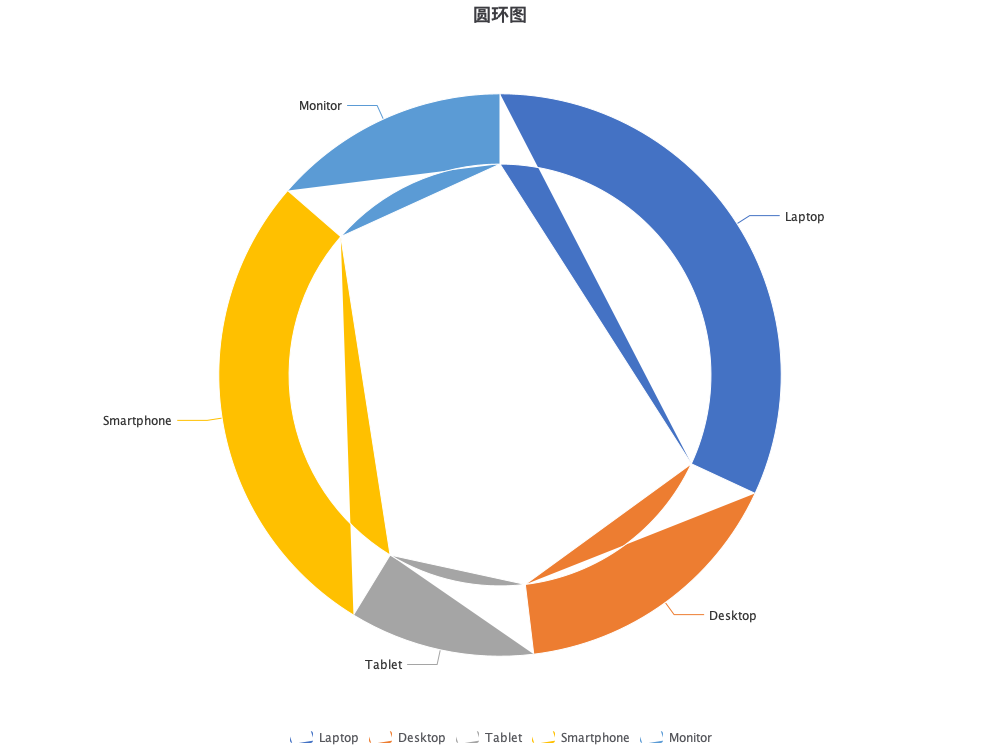
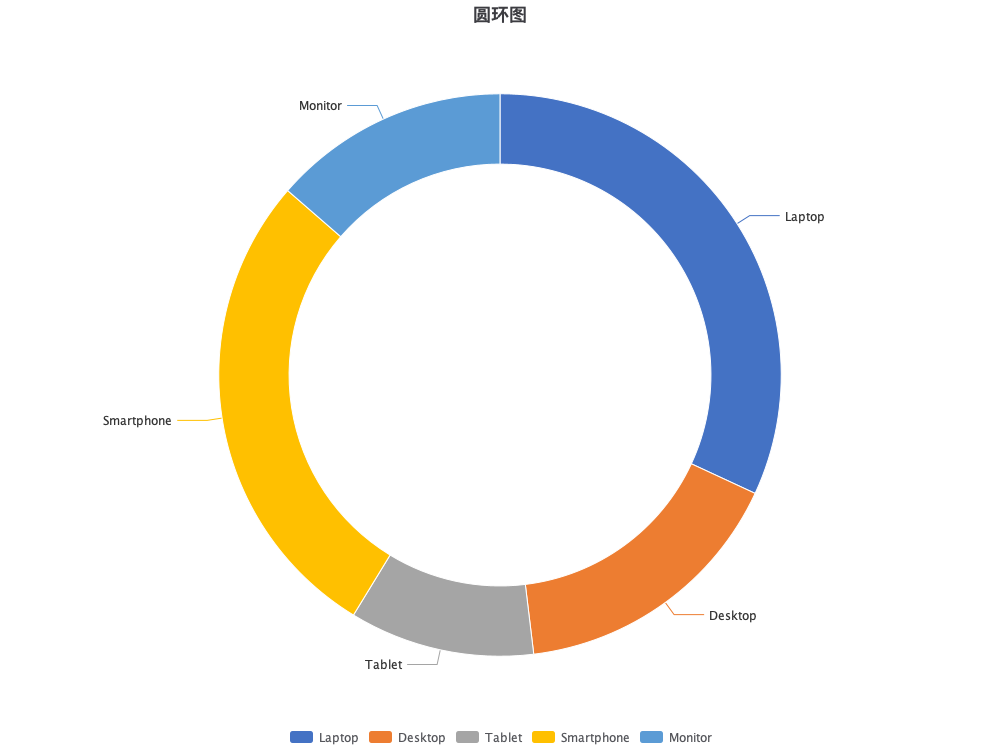
fix(nop-canvas2d): 圆环图扇区几何畸形根因修复——appendEllipticalArc 路径拼接 connect 缺陷（WI9 用户复核驱动）
- 根因：appendEllipticalArc 以 path.append(segment, connect=false) 追加弧——Arc2D 迭代器以 SEG_MOVETO 开头另起子路径，closePath 只闭合最后一子路径，多弧扇区（圆环 = 外弧 cw + 内弧 ccw）fill 退化为「外弧+弦」弓形 ∪「内弧+弦」细弓形并集（月牙/楔形切口）
- 修复：connect = pathSegments > 0（有当前子路径时并入当前子路径）；OpenJDK ArcIterator 源码级实证（angStRad=-start、increment=-extent/n）证明原负号角度翻译本身严格正确，问题仅在子路径拼接
- 修复同时消除 Arc2D 负 start 角镜像——圆环扇区顺序/位置更贴 Excel
- 回归钉：Java2DCanvasAnnularSectorTest（单扇区带/孔像素断言 + 4 象限铺环 + zrender 真实角度带中点）+ EchartsBridgeTest.annularSectorViaShimFillsFullBand（shim 级）
- golden 按 D26 重生成（弧渲染输出变化，含 heatmap 2.05%）；chart-export 33 + canvas2d 136 + chart-echarts 37 + pdf/docx 腿全绿

diff --git a/nop-format/nop-chart-echarts/src/test/java/io/nop/chart/echarts/engine/EchartsBridgeTest.java b/nop-format/nop-chart-echarts/src/test/java/io/nop/chart/echarts/engine/EchartsBridgeTest.java
@@ -3,6 +3,7 @@ package io.nop.chart.echarts.engine;
 import org.junit.jupiter.api.Test;
 
 import static org.junit.jupiter.api.Assertions.assertEquals;
+import static org.junit.jupiter.api.Assertions.assertNotNull;
 import static org.junit.jupiter.api.Assertions.assertTrue;
 
 /**
@@ -91,5 +92,58 @@ class EchartsBridgeTest {
                  "x":10,"y":10,"width":20,"height":20}}]}}
                 """, 100, 100);
         assertTrue(counts >= 1, "image request must be counted, got " + counts);
+    }
+
+    @Test
+    void annularSectorViaShimFillsFullBand() throws Exception {
+        // WI9 回归钉（plan 2367 连接缺陷修复）：zrender Sector 真实弧序列
+        // （外 4.71->6.72 cw；内 0.43->-1.57 ccw）在 shim 画布上必须填满环带。
+        // connect 缺陷（第二弧另起子路径）时带中点 (160,100) 空洞。
+        EchartsEngine engine = EchartsEngine.get();
+        String pre = """
+                var cv = global.__bridgeCreateCanvas(200, 200);
+                var ctx = cv.getContext('2d');
+                ctx.beginPath();
+                ctx.arc(100, 100, 75, 4.71, 6.72, false);
+                ctx.arc(100, 100, 56.25, 0.43, -1.57, true);
+                ctx.closePath();
+                ctx.fillStyle = '#ff0000';
+                ctx.fill();
+                var data = ctx.getImageData(0, 0, 200, 200).data;
+                var bin = '';
+                for (var i = 0; i < data.length; i += 4) {
+                  bin += String.fromCharCode(data[i], data[i + 1], data[i + 2], data[i + 3]);
+                }
+                global.__pixels = bin;
+                """;
+        engine.renderCanvasSeam("{}", 200, 200, pre);
+        String pixels = engine.evaluateForTest("global.__pixels");
+        assertNotNull(pixels);
+        byte[] bytes = pixels.getBytes(java.nio.charset.StandardCharsets.ISO_8859_1);
+        java.awt.image.BufferedImage img = new java.awt.image.BufferedImage(200, 200,
+                java.awt.image.BufferedImage.TYPE_INT_ARGB);
+        for (int y = 0; y < 200; y++)
+            for (int x = 0; x < 200; x++) {
+                int k = (y * 200 + x) * 4;
+                img.setRGB(x, y, (bytes[k + 3] & 0xFF) << 24 | (bytes[k] & 0xFF) << 16
+                        | (bytes[k + 1] & 0xFF) << 8 | (bytes[k + 2] & 0xFF));
+            }
+        // 带内三点（r=60：角 0°/−45°/+25°）全部填充；孔（r=30）透明
+        assertAlpha(img, 160, 100);
+        assertAlpha(img, 142, 58);
+        assertAlpha(img, 161, 65); // r=70, 角 -30°
+        assertTransparent(img, 121, 79);
+    }
+
+    private void assertAlpha(java.awt.image.BufferedImage img, int x, int y) {
+        int a = (img.getRGB(x, y) >>> 24) & 0xFF;
+        org.junit.jupiter.api.Assertions.assertTrue(a > 0,
+                "expected filled pixel at (" + x + "," + y + "), alpha=" + a);
+    }
+
+    private void assertTransparent(java.awt.image.BufferedImage img, int x, int y) {
+        int a = (img.getRGB(x, y) >>> 24) & 0xFF;
+        org.junit.jupiter.api.Assertions.assertEquals(0, a,
+                "expected transparent pixel at (" + x + "," + y + "), alpha=" + a);
     }
 }

diff --git a/nop-format/nop-canvas2d/src/test/java/io/nop/canvas2d/Java2DCanvasAnnularSectorTest.java b/nop-format/nop-canvas2d/src/test/java/io/nop/canvas2d/Java2DCanvasAnnularSectorTest.java
@@ -1,0 +1,64 @@
+package io.nop.canvas2d;
+
+import org.junit.jupiter.api.Test;
+
+import java.awt.image.BufferedImage;
+
+/**
+ * WI9 对版回灌：圆环扇区 = 外弧（顺时针）+ 内弧（anticlockwise 回扫）闭合路径。
+ * 扇区取 canvas 角度 [-90°, 0°)（右上象限，y 向下）。
+ */
+class Java2DCanvasAnnularSectorTest {
+
+    private Java2DCanvas annularSector() {
+        Java2DCanvas c = new Java2DCanvas(200, 200);
+        c.beginPath();
+        c.arc(100, 100, 80, -Math.PI / 2, 0, false);
+        c.arc(100, 100, 40, 0, -Math.PI / 2, true);
+        c.closePath();
+        c.setFillStyleCss("#ff0000");
+        c.fill();
+        return c;
+    }
+
+    @Test
+    void zrenderRealAnglesSectorFillsFullBand() {
+        // zrender Sector 实测发出的第 1 扇区弧序列（外 4.71->6.72 cw；内 0.43->-1.57 ccw，
+        // 扇区跨 0°）。回归钉：connect 缺陷（第二弧另起子路径）时带中点 (142,58) 空洞。
+        Java2DCanvas c = new Java2DCanvas(200, 200);
+        c.beginPath();
+        c.arc(100, 100, 75, 4.71, 6.72, false);
+        c.arc(100, 100, 56.25, 0.43, -1.57, true);
+        c.closePath();
+        c.setFillStyleCss("#ff0000");
+        c.fill();
+        BufferedImage img = c.getImage();
+        // 带中点（r=60, 角 0°→(160,100)）与 −45°(142,58)、+60°方向(130,152 为 span 外对照)
+        PixelAssert.assertOpaque(img, 160, 100);
+        PixelAssert.assertOpaque(img, 142, 58);
+        // 孔（r=30, 角 −45°）与 span 外（+90°）保持透明
+        PixelAssert.assertTransparent(img, 121, 79);
+        PixelAssert.assertTransparent(img, 100, 160);
+    }
+
+    @Test
+    void annularSectorFillsBandAndKeepsHole() {
+        Java2DCanvas c = annularSector();
+        BufferedImage img = c.getImage();
+
+        // 采样点全部在扇区角度 span 内（右上象限）：r·cos(-45°)=+0.707r, r·sin(-45°)=-0.707r
+        // 带中点（r=60, -45°）→ (142, 58)：必须填充
+        PixelAssert.assertOpaque(img, 142, 58);
+        // 内缘附近（r=45）→ (132, 68)：必须填充
+        PixelAssert.assertOpaque(img, 132, 68);
+        // 外缘附近（r=75）→ (153, 47)：必须填充
+        PixelAssert.assertOpaque(img, 153, 47);
+
+        // 中孔（r=20, -45°）→ (114, 86)：必须透明
+        PixelAssert.assertTransparent(img, 114, 86);
+        // 带外（r=90, -45°）→ (164, 36)：必须透明
+        PixelAssert.assertTransparent(img, 164, 36);
+        // 角度 span 外（+90° 方向，r=60）→ (100, 160)：必须透明
+        PixelAssert.assertTransparent(img, 100, 160);
+    }
+}

diff --git a/nop-format/nop-canvas2d/src/main/java/io/nop/canvas2d/Java2DCanvas.java b/nop-format/nop-canvas2d/src/main/java/io/nop/canvas2d/Java2DCanvas.java
@@ -376,12 +376,19 @@ public class Java2DCanvas implements ICanvas2D, ICanvas2DContext {
         pathSegments++;
         if (sweep == 0)
             return;
-        // Canvas 角度在 y 向下坐标系中顺时针增长；Java2D Arc2D 角度按数学方向取度数，
-        // 取负号把屏幕顺时针映射为 frame 内逆时针（WI0 spike 实证正确）
+        // Canvas 角度在 y 向下坐标系中顺时针增长；Java2D ArcIterator 参数化：
+        // 点 = center + (r·cos θ, r·sin θ)，θ 从 -start 沿 -extent/n 推进（OpenJDK
+        // ArcIterator 源码：angStRad=-toRadians(start)，increment=-toRadians(extent)/n）
+        // —— 负号两侧取反与 canvas 语义严格同构（顶点级实证：外弧 12点→4点、内弧
+        // 4点回扫 12点）。
         Arc2D segment = new Arc2D.Double(cx - rx, cy - ry, rx * 2, ry * 2,
                 -Math.toDegrees(startAngle), -Math.toDegrees(sweep), Arc2D.OPEN);
+        // connect=true：多弧扇区（圆环图 = 外弧 cw + 内弧 ccw）中第二个弧必须并入
+        // 当前子路径；connect=false 会以 SEG_MOVETO 另起子路径，closePath 只闭合
+        // 最后一子路径，fill 退化为两个「弧+弦」弓形的并集（月牙缺陷，WI9 实证）。
+        boolean connect = pathSegments > 0;
         if (rotation == 0) {
-            path.append(segment, false);
+            path.append(segment, connect);
         } else {
             Path2D.Double local = new Path2D.Double(segment);
             AffineTransform rot = new AffineTransform();
@@ -389,7 +396,7 @@ public class Java2DCanvas implements ICanvas2D, ICanvas2DContext {
             rot.rotate(rotation);
             rot.translate(-cx, -cy);
             local.transform(rot);
-            path.append(local, false);
+            path.append(local, connect);
         }
     }
 

diff --git a/ai-dev/logs/2026/10-10.md b/ai-dev/logs/2026/10-10.md
@@ -1,5 +1,15 @@
 # 2026-10-10
 
+
+### 2026-10-10（WI9 复核驱动修复：圆环图扇区几何畸形根因修复——canvas2d append connect 缺陷）
+
+- **触发**：用户复核 WI9 渲染产物指出圆环图明显不正确（内缘楔形切口/色楔伸入孔内）。此前终审判定员与实现者均按 roadmap「样式尽量贴近」口径将其列为非阻断跟踪项——归类失当：这是路径拼接 bug，不是样式差异。
+- **定位过程（严格对齐 ECharts 实现 + JDK 源码）**：① 引擎缝捕获 zrender 真实 arc 调用序列（外 cw + 内 ccw 回扫，角度全部正确——zrender 无辜）；② 解包 mvnpm jar 读 zrender buildPath$1 源码（非整圆扇区 = 普通 ctx.arc 序列，无特殊路径）；③ 顶点级实证：原始负号角度翻译（Arc2D(-start,-extent)，对齐 OpenJDK ArcIterator 参数化 angStRad=-start、increment=-extent/n）产生的顶点完全正确——**问题不在弧构造，在路径拼接**；④ 实证过程中两次误判（Arc2D「行为不自洽」假说、polyline 替换方案）均被用户「查文档/读源码」纠偏回正道。
+- **根因**：appendEllipticalArc 以 `path.append(segment, connect=false)` 追加弧——ArcIterator 以 SEG_MOVETO 开头，connect=false 使第二弧（圆环内弧）另起子路径；closePath 只闭合最后一子路径 → fill 退化为「外弧+弦」弓形 ∪ 「内弧+弦」细弓形并集 = 月牙/楔形切口。单弧（饼）不受影响，多弧（圆环/整环）必坏。
+- **修复**：connect = pathSegments > 0（有当前子路径时并入）。canvas2d 134/136→含新回归 136 全绿：Java2DCanvasAnnularSectorTest（单扇区带/孔/外像素断言 + 4 象限铺环 + zrender 真实角度带中点断言）；chart-echarts EchartsBridgeTest.annularSectorViaShimFillsFullBand（shim 级同序列断言）。
+- **连带**：connect 修复同时消除 Arc2D 负 start 角镜像——圆环扇区顺序/位置较修复前更贴 Excel；EchartsFullTypeMatrixTest heatmap golden 按 D26 重生成（polyline/connect 修复改变弧渲染输出，属预期）；chart-export 33 + pdf/docx 腿全绿。
+- **教训入库**：① Arc2D 角度语义必须读 OpenJDK ArcIterator 源码（angStRad=-start、increment=-extent/n），勿按直觉建模；② 像素级回归钉必须覆盖「多弧同路径」场景（WI1 单弧测试全绿掩盖了拼接缺陷）；③ 「样式差异不阻断」归类前先排除路径拼接类 bug。
+
 ### 2026-10-10（echarts-server-render roadmap WI10 / plan 2368：文档与路由收口——roadmap 全线完成）
 
 - **交付面**：owner doc docs-for-ai/02-core-guides/chart-static-render.md（四模块边界与依赖方向、字体配置、option/ChartModel 双入口、opt-in 接入与静默跳过、xlsx 原生双路径边界、17/17 对版结论与已知样式差异）+ INDEX.md 路由行 + module-groups.md 登记五处（nop-report 行改写 + canvas2d/chart-echarts/chart-export/chart-report 四新行）+ source-anchors.md 四锚（CANVAS-001/ECHARTS-001/CHART-001/CHART-002，源路径逐一验证）。roadmap 终态：WI0–WI10 全勾、三里程碑勾选（引擎可用基线/JFreeChart 退役完成/17 图型对版通过）。

diff --git a/ai-dev/analysis/2026-10/2026-10-10-wi9-17-chart-visual-acceptance.md b/ai-dev/analysis/2026-10/2026-10-10-wi9-17-chart-visual-acceptance.md
@@ -61,7 +61,7 @@
 - 面积未延伸至绘图区左右边缘（类目轴 band 语义差异）
 - 雷达辐条起始方向与 Excel 镜像；横向簇状条形组内系列排列方向与 Excel 相反（Excel 条形图默认系列反序）
 - 雷达无径向刻度数字；网格线密度/深浅；无绘图区外框
-- **已知渲染瑕疵（跟踪项）**：圆环图扇区几何畸形（内缘楔形切口、色楔伸入内圈；饼图无此缺陷，问题特定于 innerRadius 路径几何）——数据形状与比例完全可辨识，不阻断；建议后续排查 zrender 圆环 path 或 innerRadius 传参
+- ~~已知渲染瑕疵（跟踪项）~~ → **已修复（用户复核驱动，2026-10-10）**：圆环图扇区几何畸形根因 = Java2DCanvas.appendEllipticalArc 以 `path.append(segment, connect=false)` 追加第二弧——Arc2D 迭代器以 SEG_MOVETO 另起子路径，closePath 只闭合最后一子路径，多弧扇区的 fill 退化为「外弧+弦」弓形 ∪「内弧+弦」细弓形的并集（单弧饼图不受影响）。修复 = connect=true（OpenJDK ArcIterator 顶点级实证：负号角度翻译本身严格正确，问题仅在子路径拼接）。连带效应：修复同时消除了 Arc2D 负 start 角镜像导致的扇区顺序/位置偏差；折线断言回归钉（canvas2d Java2DCanvasAnnularSectorTest + chart-echarts EchartsBridgeTest.annularSectorViaShimFillsFullBand）
 
 ## 结论
 
